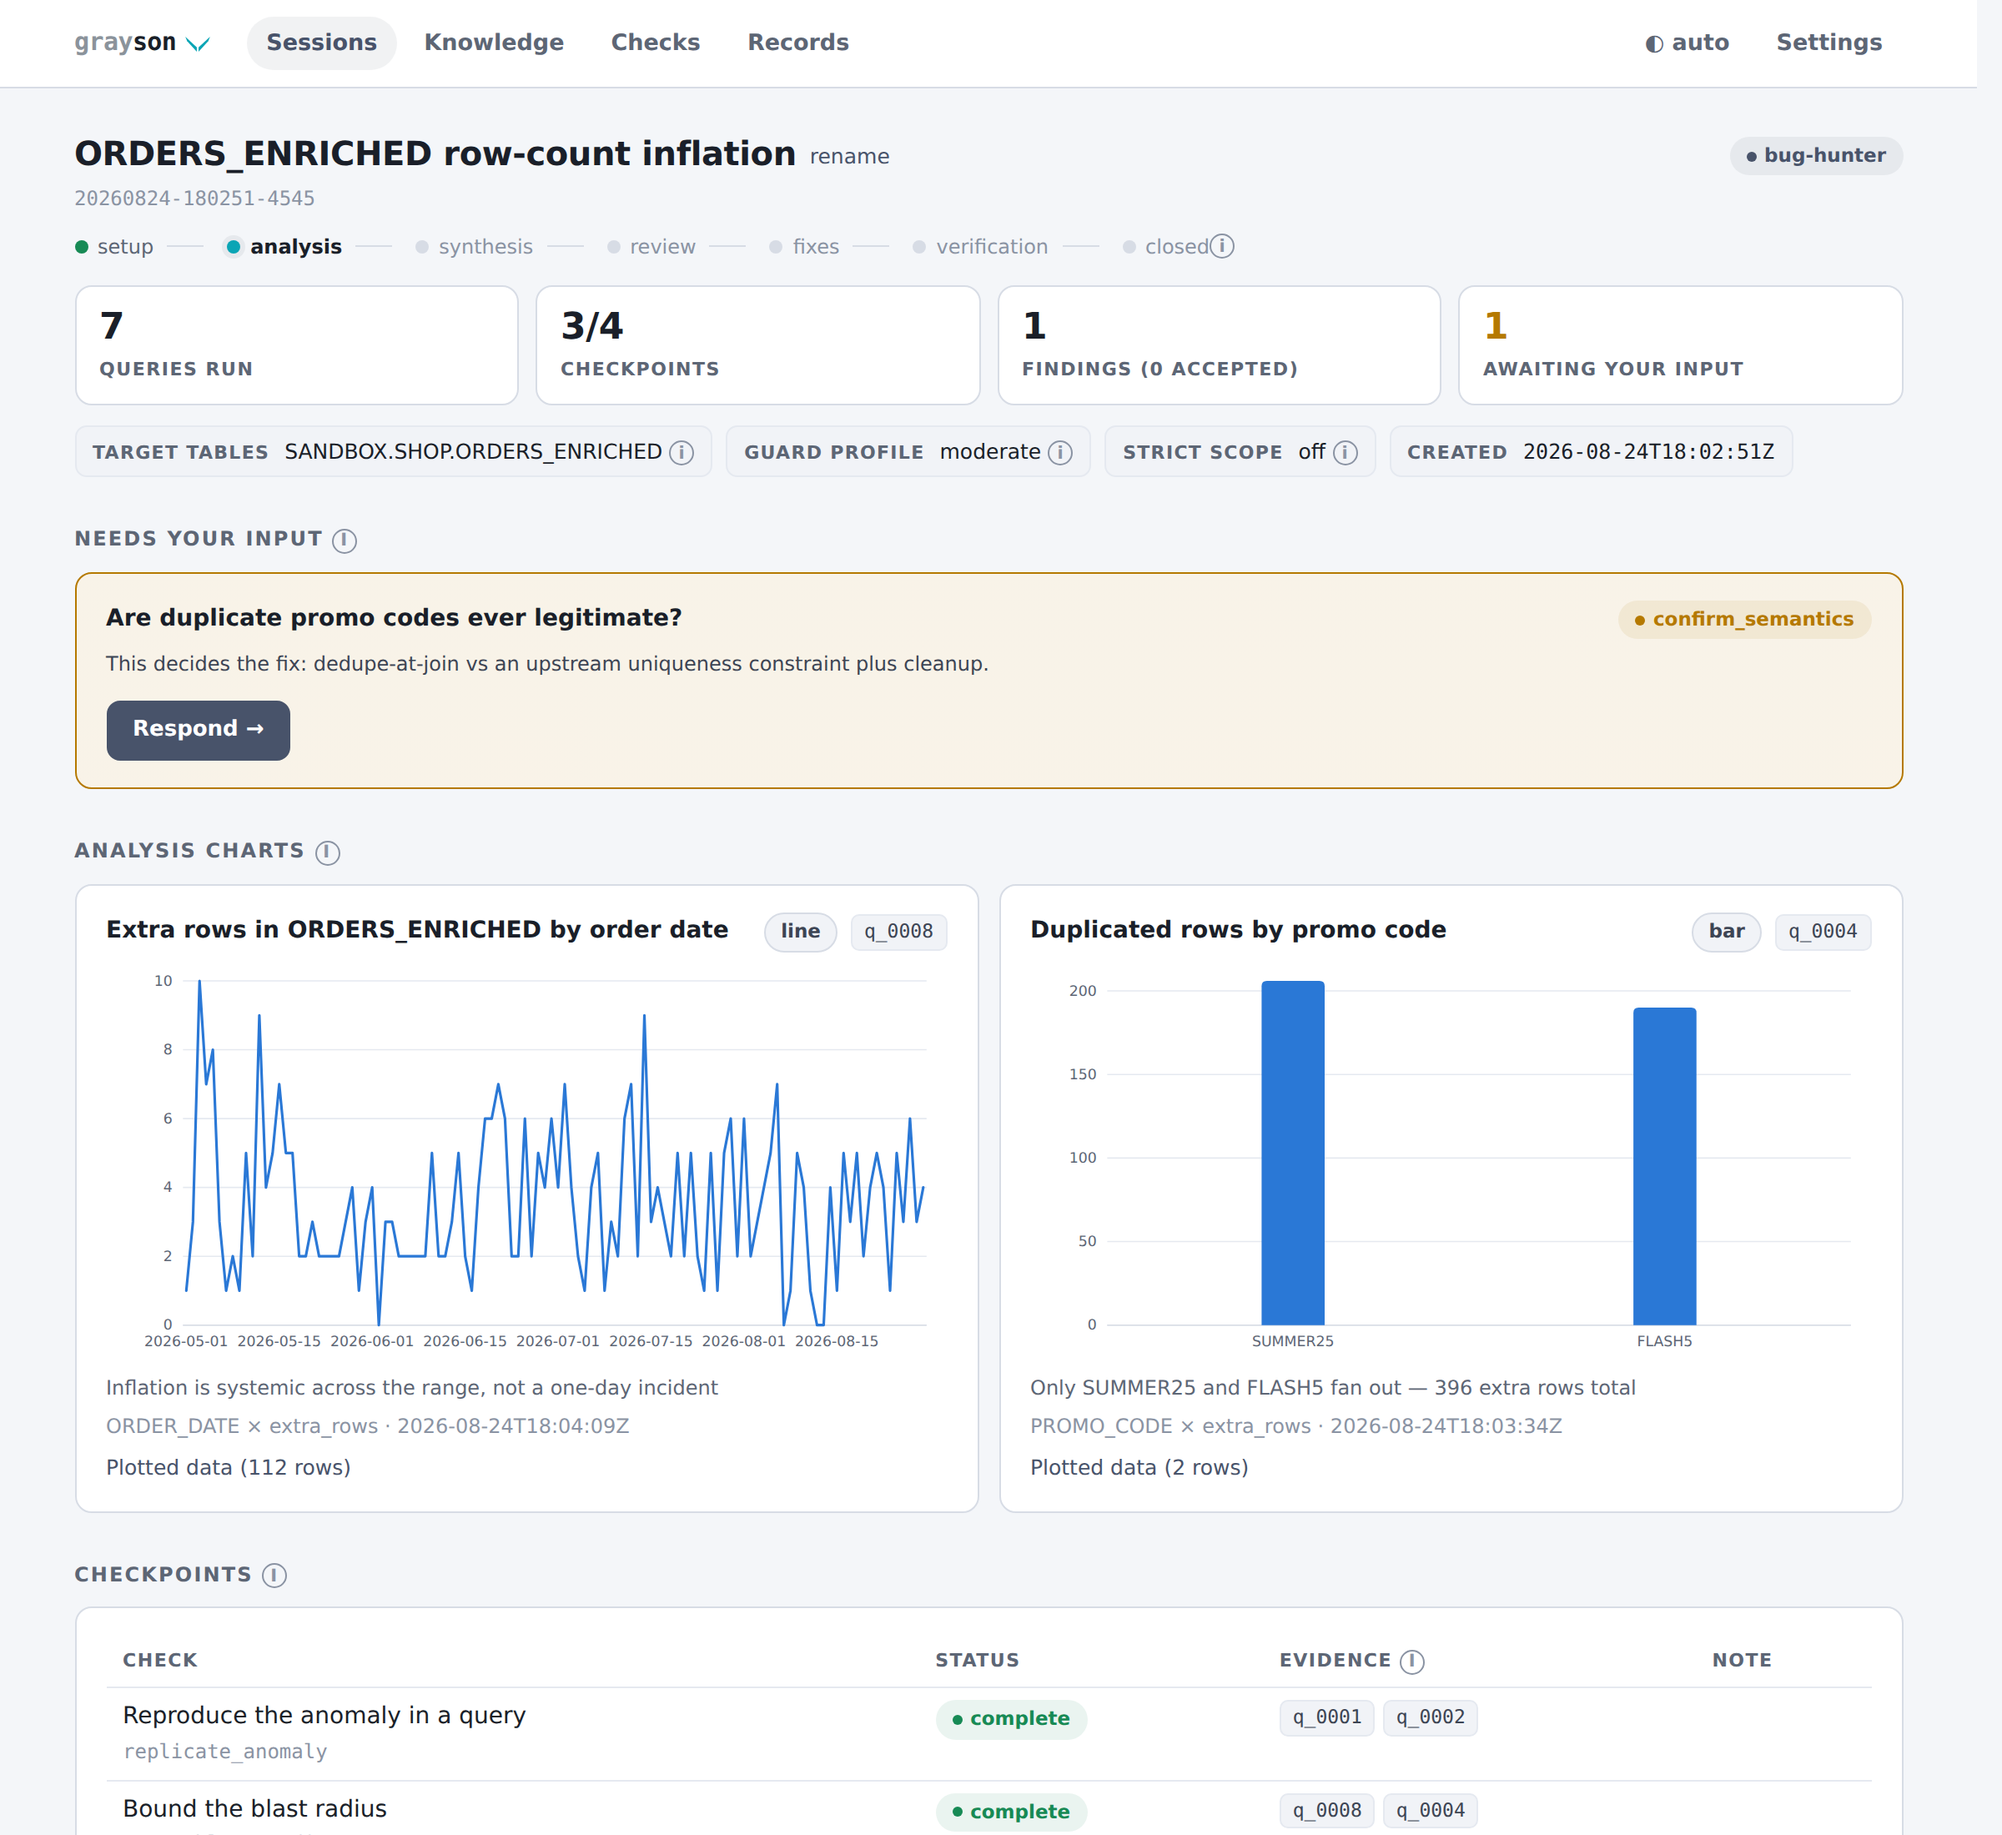
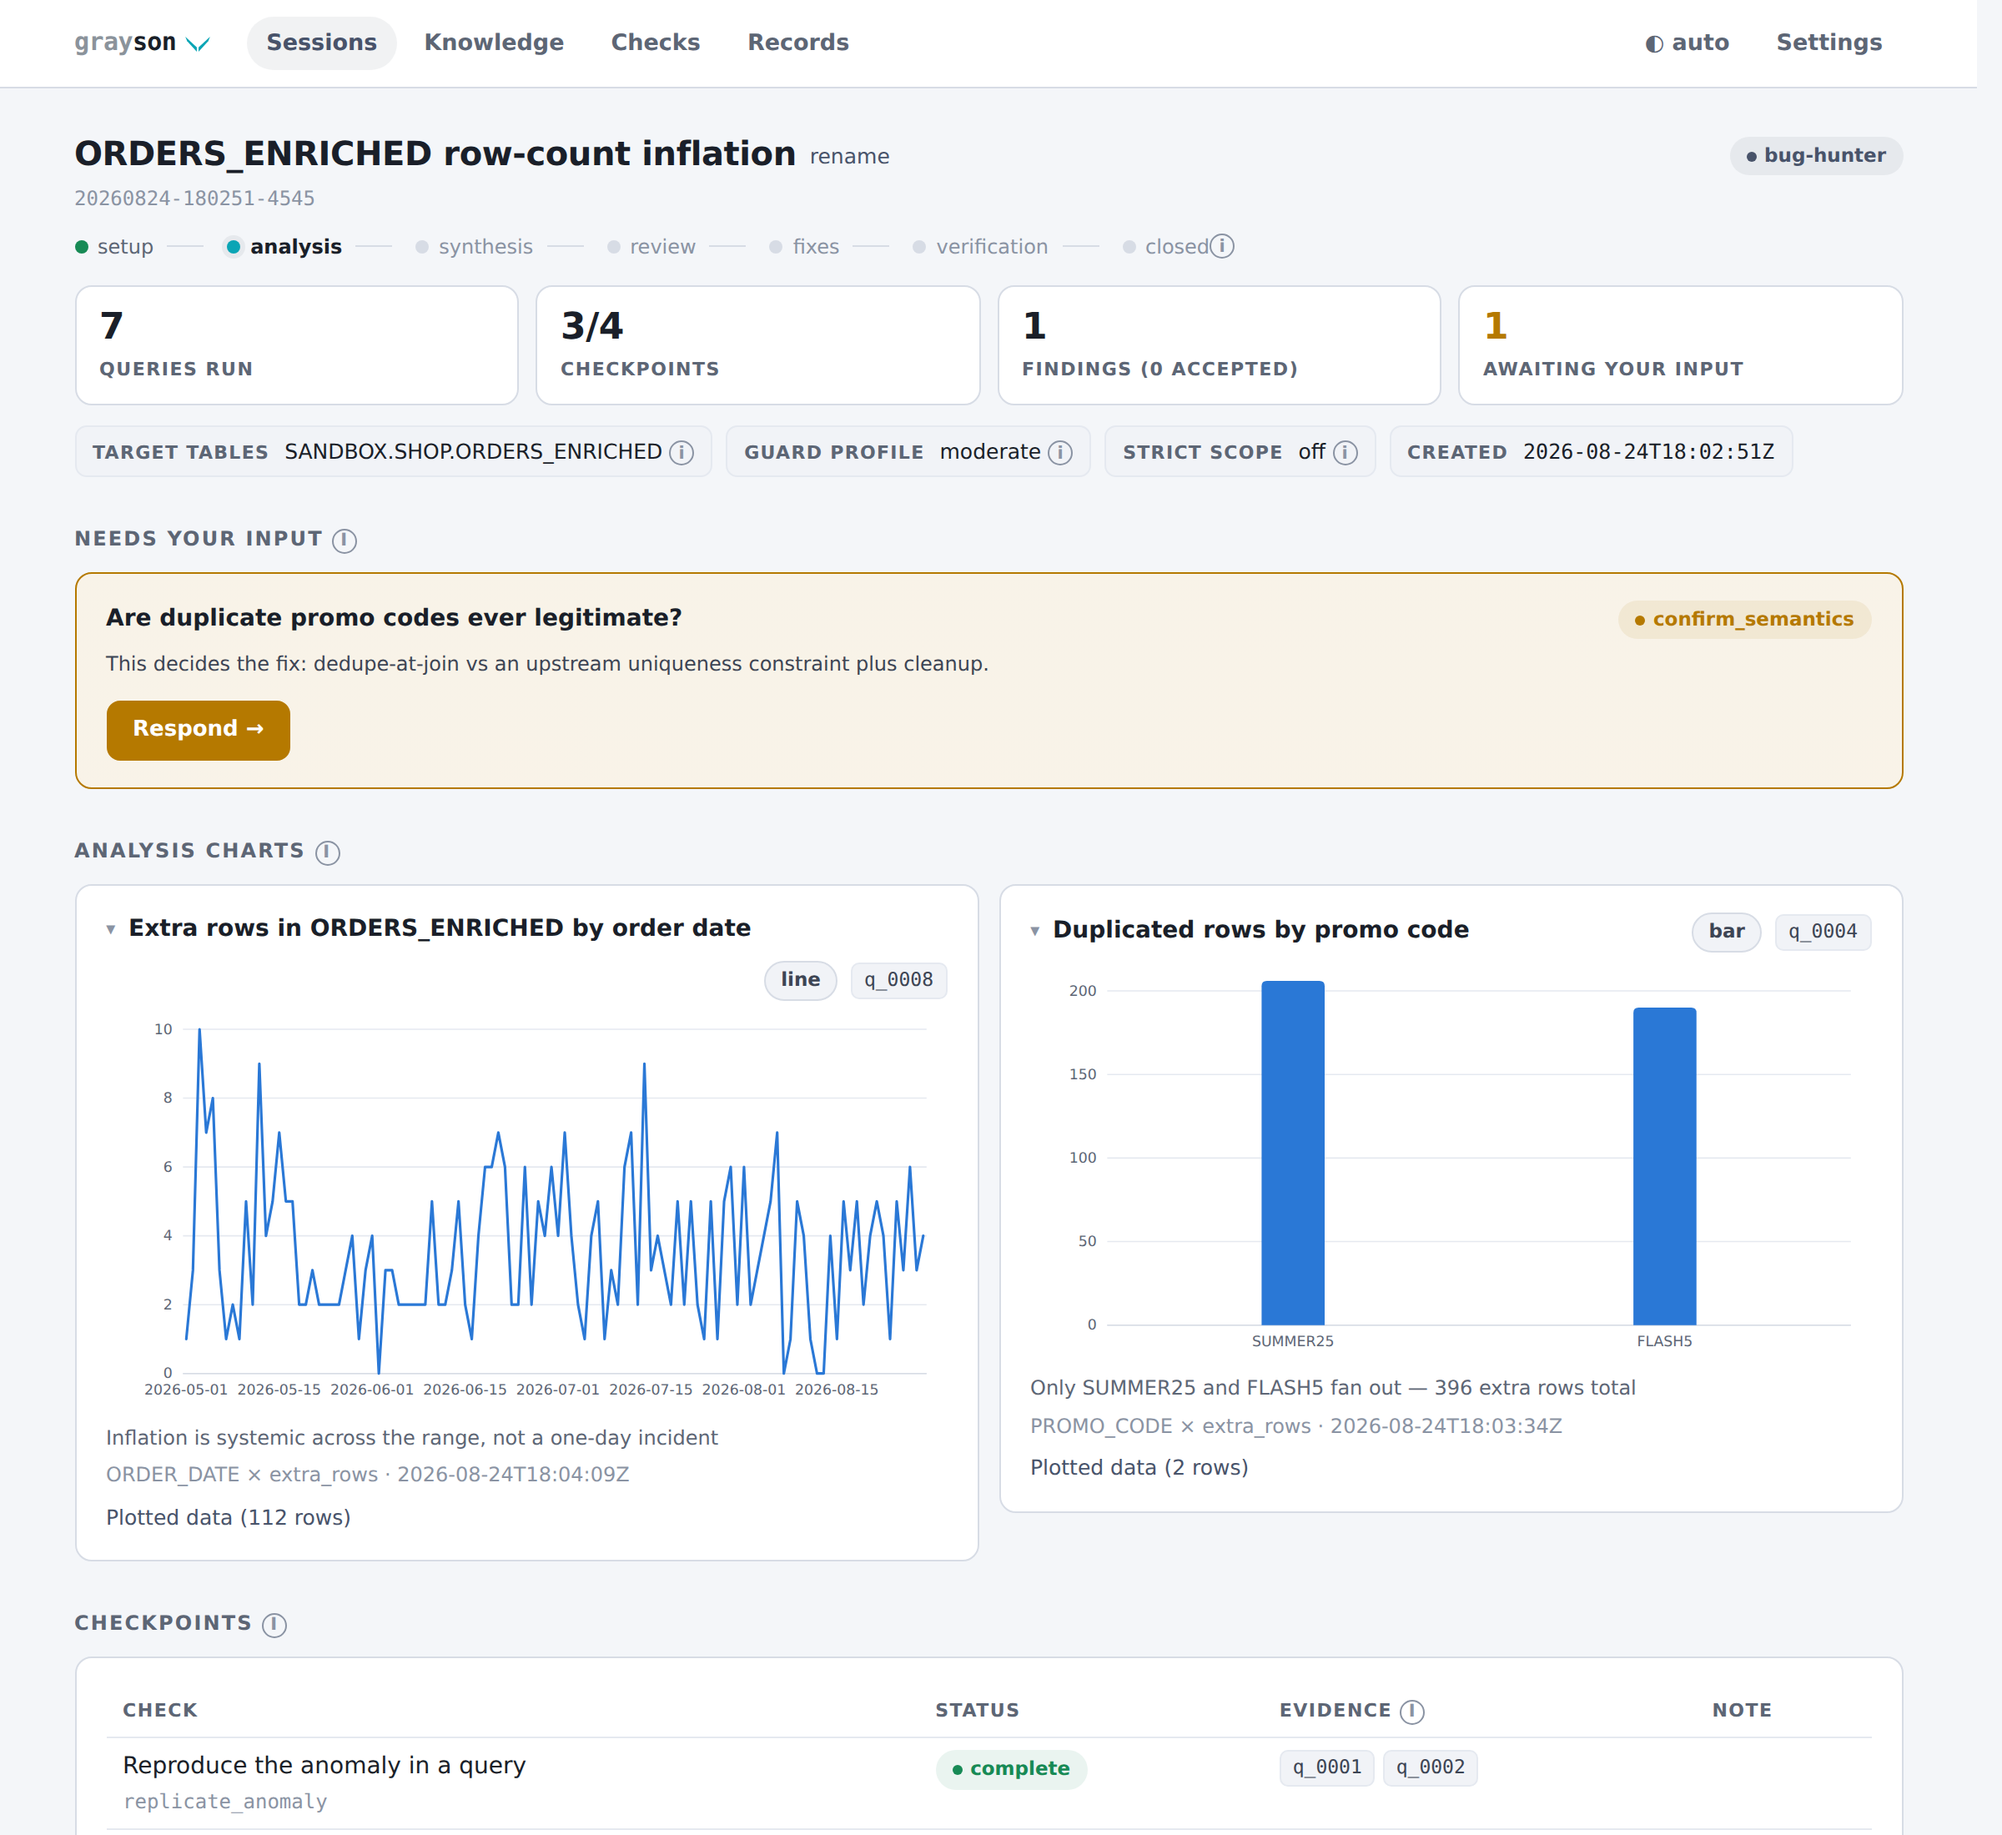
Standardize decision buttons across findings, proposals, interventions
One system, documented in the stylesheet: solid amber .btn.confirm for
committing a pending human decision (Accept finding, Approve proposal,
Respond/Submit response on interventions), quiet red-outline .btn.danger
for the negative decision (Reject finding, Reject proposal — labels now
parallel), graphite for neutral actions. Proposal buttons pick up the sm
sizing used by the findings pair. README screenshots re-captured.

Claude-Session: https://claude.ai/code/session_01U2XH78u3pre3ksGoFeF61e

diff --git a/src/grayson/ui/templates/session.html b/src/grayson/ui/templates/session.html
@@ -62,7 +62,7 @@
     <b>{{ iv.title }}</b><span class="badge attn">{{ iv.kind }}</span>
   </div>
   {% if iv.prompt %}<div class="ink2 small" style="margin: 6px 0;">{{ iv.prompt }}</div>{% endif %}
-  <a class="btn" style="margin-top: 6px;" href="/session/{{ s.id }}/intervention/{{ iv.iid }}?t={{ token }}">Respond →</a>
+  <a class="btn confirm" style="margin-top: 6px;" href="/session/{{ s.id }}/intervention/{{ iv.iid }}?t={{ token }}">Respond →</a>
 </div>
 {% endfor %}
 {% endif %}
@@ -256,11 +256,11 @@
     </div>
   {% endif %}
   {% if p.status == "proposed" %}
-  <div class="row" style="margin-top: 12px;">
+  <div class="row" style="margin-top: 12px; gap: 14px;">
     <form class="inline" method="post" action="/session/{{ s.id }}/proposal/{{ p.pid }}/approve?t={{ token }}">
-      <button class="btn" type="submit">Approve</button></form>
+      <button class="btn confirm sm" type="submit">Approve proposal</button></form>
     <form class="inline" method="post" action="/session/{{ s.id }}/proposal/{{ p.pid }}/reject?t={{ token }}">
-      <button class="btn danger" type="submit">Reject</button></form>
+      <button class="btn danger sm" type="submit">Reject proposal</button></form>
   </div>
   {% endif %}
 </div>

diff --git a/src/grayson/ui/templates/base.html b/src/grayson/ui/templates/base.html
@@ -176,7 +176,13 @@ details.findcard.superseded[open] { opacity: .85; }
 .badge.todo { color: var(--todo); border-color: transparent; background: var(--todo-soft); }
 .badge.todo::before { background: var(--todo); }
 
-/* ---- buttons --------------------------------------------------------- */
+/* ---- buttons ----------------------------------------------------------
+   One system across the console:
+   .btn.confirm  solid amber  — committing a pending human decision
+                                (accept finding, approve proposal, answer
+                                an intervention)
+   .btn.danger   red outline  — the negative decision (reject), kept quiet
+   .btn / .btn.secondary / .btn.ghost — neutral actions and navigation */
 .btn { display: inline-flex; align-items: center; gap: 6px; padding: 7px 15px;
   border-radius: 8px; cursor: pointer; border: 1px solid var(--act);
   background: var(--act); color: var(--act-ink); font-size: 13px; font-weight: 620;

diff --git a/src/grayson/ui/templates/intervention.html b/src/grayson/ui/templates/intervention.html
@@ -70,7 +70,7 @@
   </div>
 {% endif %}
 
-<button class="btn" type="submit">Submit response</button>
+<button class="btn confirm" type="submit">Submit response</button>
 </form>
 {% endif %}
 {% endblock %}
